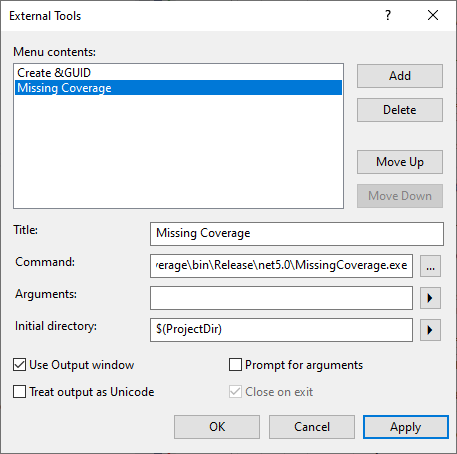
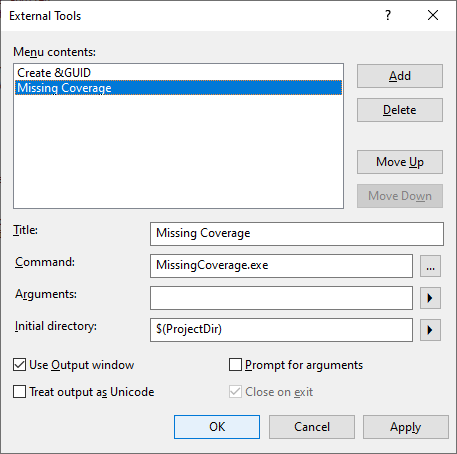
Bump version to 0.9.1

diff --git a/README.md b/README.md
@@ -7,6 +7,10 @@
 
 ### To use Missing Coverage
 - Make sure the coverage reports are available in *Cobertura* format.
+- Install *Missing Coverage* as a .NET tool. See the [.NET documentation](https://docs.microsoft.com/en-us/dotnet/core/tools/global-tools) for more details.
+```
+dotnet tool install -g Mawosoft.MissingCoverage
+```
 - Add *Missing Coverage* as an external tool to *Visual Studio*.
 
 ![](assets/VStudio_ExternalTools.png)
